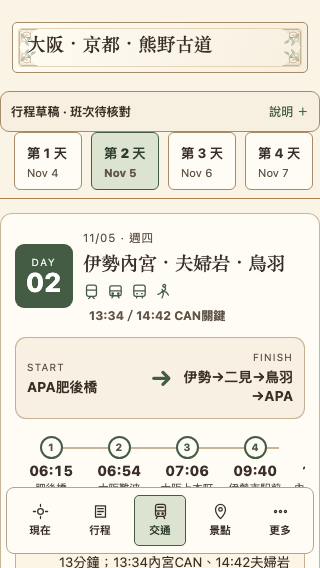
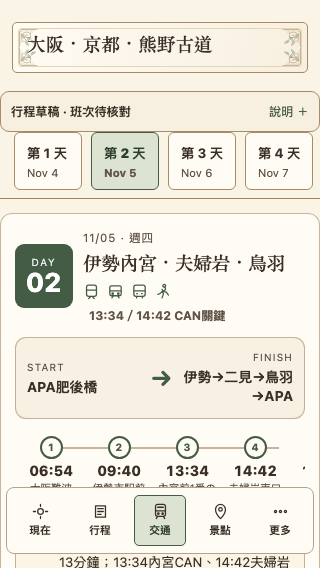
fix: highlight 11/05 critical Ise transfer rail and source anchor

diff --git a/journey-board.js b/journey-board.js
@@ -54,13 +54,23 @@
   function uniqueModes(legs) {
     return [...new Set(legs.map((leg) => leg.mode).filter((m) => ["train","subway","bus","walk","boat","flight"].includes(m)))];
   }
-  function journeyStages(legs) {
+  function journeyStages(legs, stageLegIds) {
     if (legs.length < 2) return [];
+    // Optional ordering of already-published leg IDs, never duplicate a time
+    // or invent a stage. Long routes need to show the critical interchange,
+    // not just the first five steps from an early-only slice.
+    if (Array.isArray(stageLegIds) && stageLegIds.length >= 2 && stageLegIds.length <= 5) {
+      const byId = new Map(legs.map((leg) => [leg.id, leg]));
+      const selected = stageLegIds.map((id) => byId.get(id)).filter(Boolean);
+      if (selected.length === stageLegIds.length && new Set(selected).size === selected.length)
+        return selected;
+    }
     const picked = [legs[0], ...legs.filter((leg) => leg.critical), legs[legs.length - 1]];
-    return [...new Set(picked)].slice(0, 5);
+    const unique = [...new Set(picked)];
+    return unique.length <= 5 ? unique : [...unique.slice(0, 4), unique.at(-1)];
   }
-  function stageRail(legs) {
-    const stages = journeyStages(legs);
+  function stageRail(legs, stageLegIds) {
+    const stages = journeyStages(legs, stageLegIds);
     if (!stages.length) return "";
     return '<div class="tl-stage-rail" aria-label="關鍵交通節點">' + stages.map((leg, i) =>
       '<div class="tl-stage">' +
@@ -211,7 +221,7 @@
       : "";
     const boardTitle = context === "map" ? "交通步驟" : "交通快覽";
     const referenceLink = '<a href="./reference.html#' +
-      (day.date === '2026-11-11' ? 'kumano' : 'details') +
+      (day.date === '2026-11-05' ? 'ise-primary' : day.date === '2026-11-11' ? 'kumano' : 'days') +
       '" class="tl-source-link" target="_blank" rel="noopener noreferrer">完整來源時刻 <span aria-hidden="true">↗</span></a>';
     return '<section class="tl-board" aria-label="' + esc(day.date) + ' 行程與交通">' +
       '<header class="tl-board-head">' +
@@ -223,7 +233,7 @@
       '<div class="tl-route-frame"><div><small>START</small><strong>' + esc(m.from) + '</strong></div>' +
         '<span class="tl-route-arrow" aria-hidden="true">→</span>' +
         '<div><small>FINISH</small><strong>' + esc(m.to) + '</strong></div></div>' +
-      stageRail(legs) + alert + credentialPickupCard(day) +
+      stageRail(legs, m.stageLegIds) + alert + credentialPickupCard(day) +
       (m.attentionLevel === 'neutral' && m.attention
         ? '<p class="tl-neutral-line">' + esc(m.attention) + '</p>' : '') +
       '<div class="tl-list-head"><h3>' + boardTitle + '</h3><span>' +

diff --git a/tests/ise-nov05-visual-smoke.py b/tests/ise-nov05-visual-smoke.py
@@ -17,6 +17,7 @@ with sync_playwright() as pw:
     page.wait_for_selector(".trip-day-view .tl-board")
     assert "伊勢內宮" in page.locator(".tl-board-title").inner_text()
     assert page.locator(".tl-leg").count()==14
+    assert page.locator(".tl-stage strong").all_inner_texts()==["06:54","09:40","13:34","14:42","16:57"]
     assert page.locator(".tl-board").inner_text().count("13:34")>0
     assert "14:42" in page.locator(".tl-board").inner_text()
     assert not page.locator(".tl-board").inner_text().find("07:05")>=0
